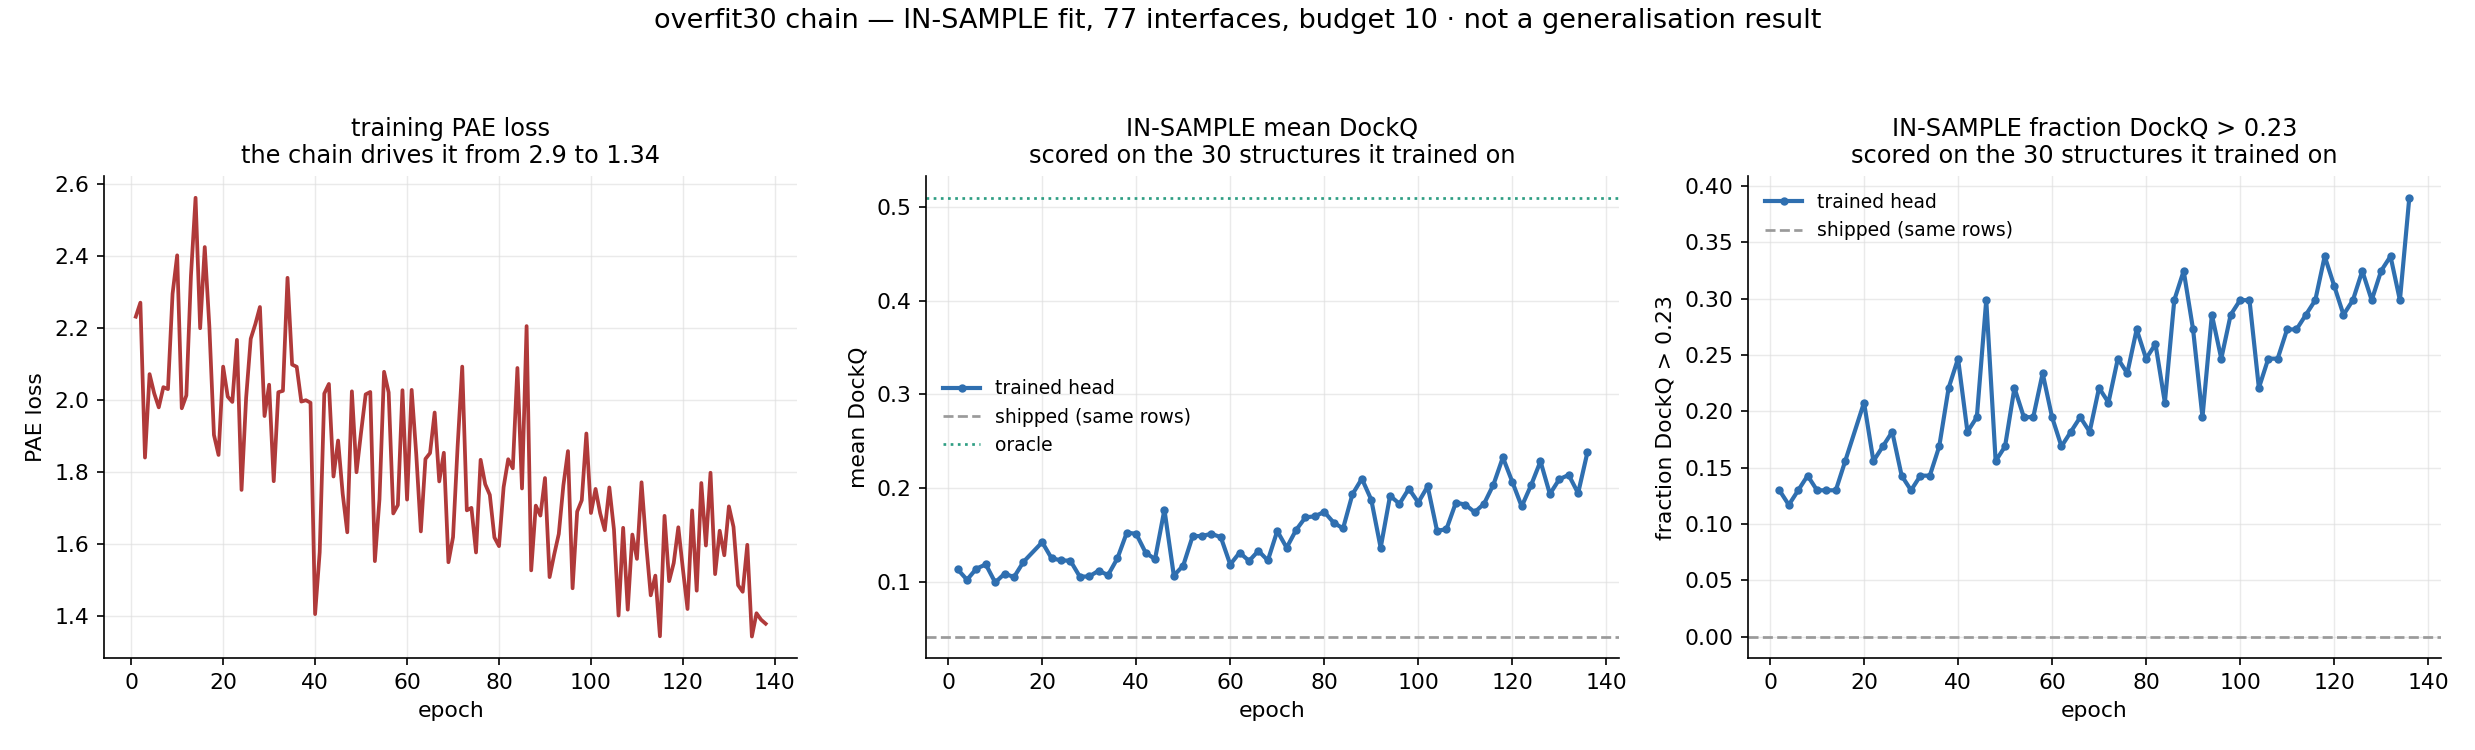
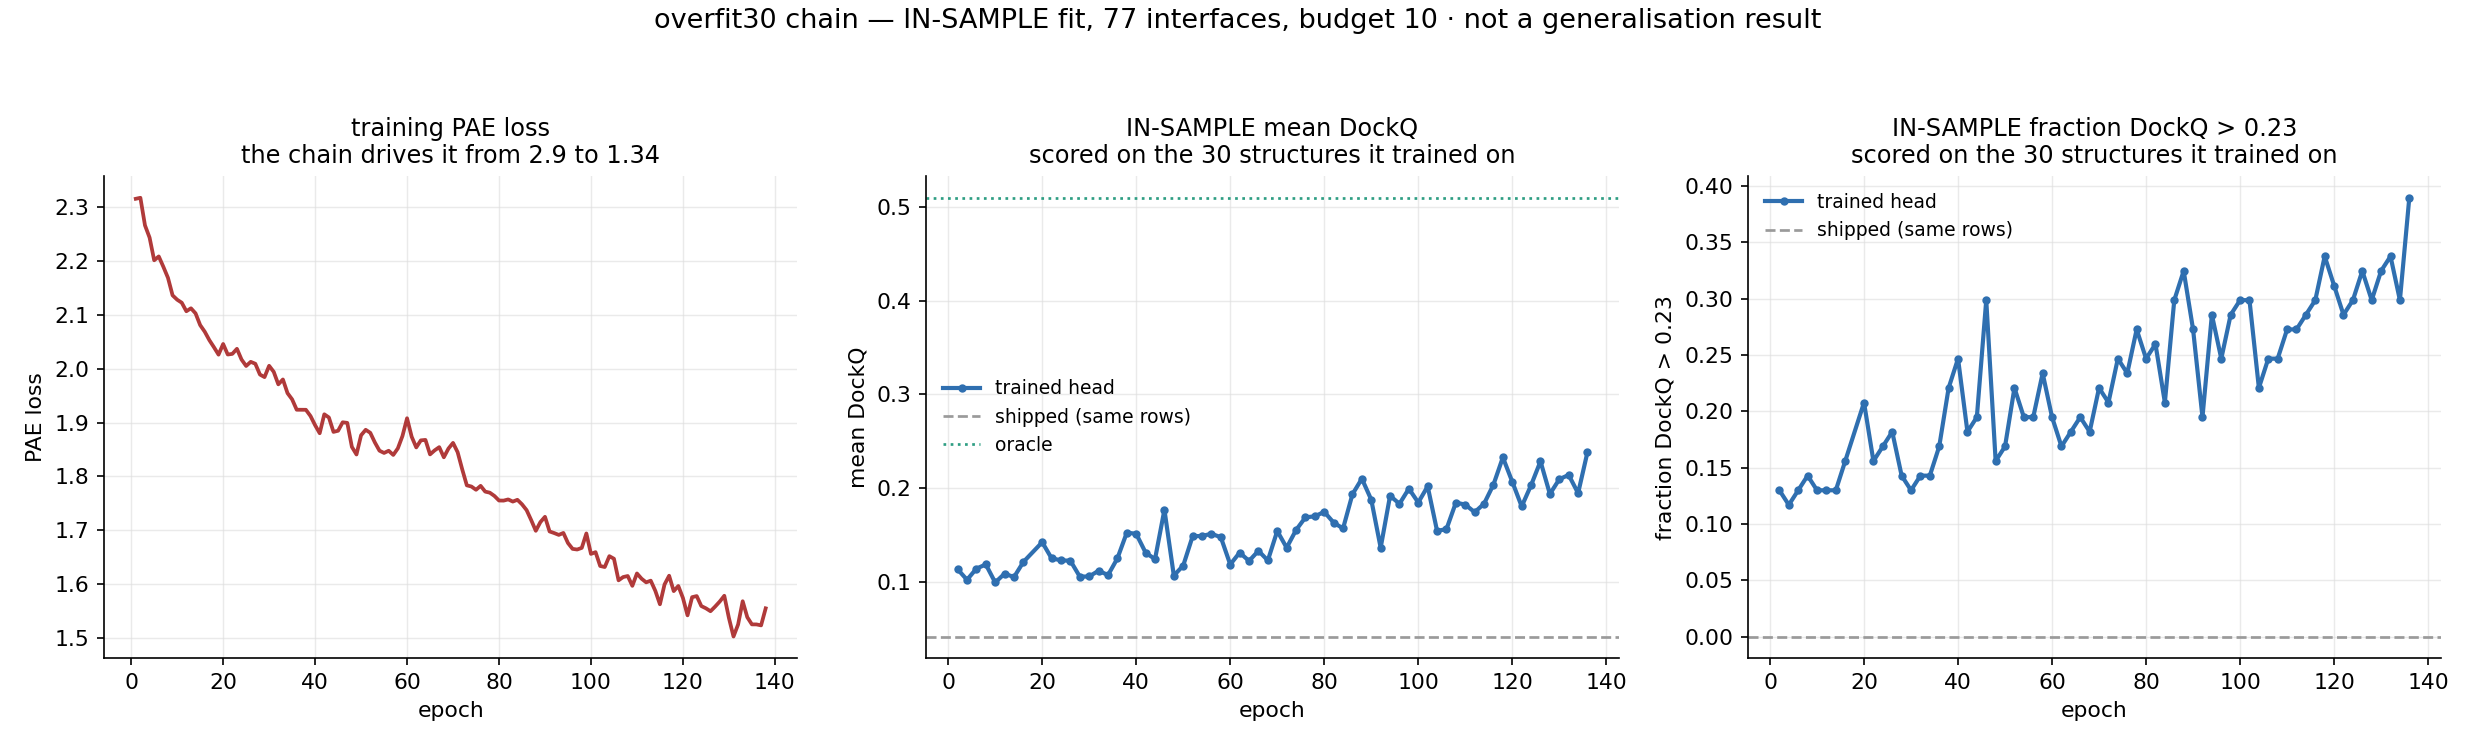
run every converted plotter, which is how three broken conversions were found
The previous commit converted six plotters to epoch_curve and only re-ran one of them. Running
all of them found that three did not work at all:

  - plot_arms_full and plot_crop_vs_uncrop imported epoch_curve without adding run_logging to
    sys.path, so both died on ModuleNotFoundError the moment they were invoked.
  - plot_train_pae was pinned to chain=False, so `--chain` silently collapsed a 7-epoch arm to
    the newest run's single partial epoch -- the exact truncation the chain logic exists to
    prevent, reintroduced by the fix for a different defect.
  - plot_rowweight_pair returned one value per epoch where the caller keeps the LONGEST per-epoch
    list and drops short ones as incomplete, so every epoch read as incomplete and the figure was
    empty ("no complete epochs yet"). It now repeats the all-ranks mean to its own pose count:
    the mean of n copies of m is m, and len() stays the completeness signal it already was.

Cross-check that the shared definition actually holds: plot_rel_arm and plot_train_pae, which
reach it by different paths, agree to 4dp on all six completed epochs of the live arm
(3.0668 / 3.0431 / 3.0452 / 3.0559 / 3.0119 / 3.0397).

Claude-Session: https://claude.ai/code/session_014t55QPNWnMkjqFi95YVBtG

Changed region(s): [[0.0311, 0.3067, 0.3111, 0.8587], [0.0311, 0.6133, 0.0622, 0.644], [0.0311, 0.2453, 0.0622, 0.276]]

diff --git a/extra_training/run_logging/plot_rowweight_pair.py b/extra_training/run_logging/plot_rowweight_pair.py
@@ -60,7 +60,10 @@ def curve(rid, col, win=False):
     is kept only for `win=True`, which filters by pdb and therefore cannot use a cross-rank
     aggregate; that case is LABELLED by returning the source alongside."""
     if not win:
-        return {e: [v] for e, (v, _n, _s) in
+        # The downstream keeps the LONGEST list per epoch and drops short ones as incomplete, so
+        # the all-ranks mean is returned repeated to its own pose count. The mean of n copies of
+        # m is m, and len() stays the completeness signal it already was.
+        return {e: [v] * n for e, (v, n, _s) in
                 epoch_curve.epoch_means(rid, col, chain=False).items()}
     d = defaultdict(list)
     p = os.path.join(ROOT, "training", "runs", rid, "trajectory.csv")

diff --git a/extra_training/run_logging/plot_train_pae.py b/extra_training/run_logging/plot_train_pae.py
@@ -104,7 +104,7 @@ if not per:
 # so averaging it reports the mean over the third of the structures that rank walked. epoch_curve
 # uses the cross-rank batch column weighted by batch_n. per[] is still used for the pose counts
 # and the pdb filter, which are per-pose questions.
-_am = epoch_curve.epoch_means(rid, COL, chain=False)
+_am = epoch_curve.epoch_means(rid, COL, chain=CHAIN)
 eps = sorted(_am) or sorted(per)
 mean = [_am[e][0] if e in _am else float(np.mean(per[e])) for e in eps]
 n = [_am[e][1] if e in _am else len(per[e]) for e in eps]

diff --git a/extra_training/run_logging/plot_crop_vs_uncrop.py b/extra_training/run_logging/plot_crop_vs_uncrop.py
@@ -29,6 +29,7 @@ import collections
 import csv
 import numpy as np
 
+sys.path.insert(0, os.path.dirname(os.path.abspath(__file__)))
 import epoch_curve
 import matplotlib
 matplotlib.use("Agg")

diff --git a/extra_training/run_logging/plot_arms_full.py b/extra_training/run_logging/plot_arms_full.py
@@ -25,6 +25,7 @@ import re
 import sys
 import numpy as np
 
+sys.path.insert(0, os.path.dirname(os.path.abspath(__file__)))
 import epoch_curve
 import matplotlib
 matplotlib.use("Agg")
